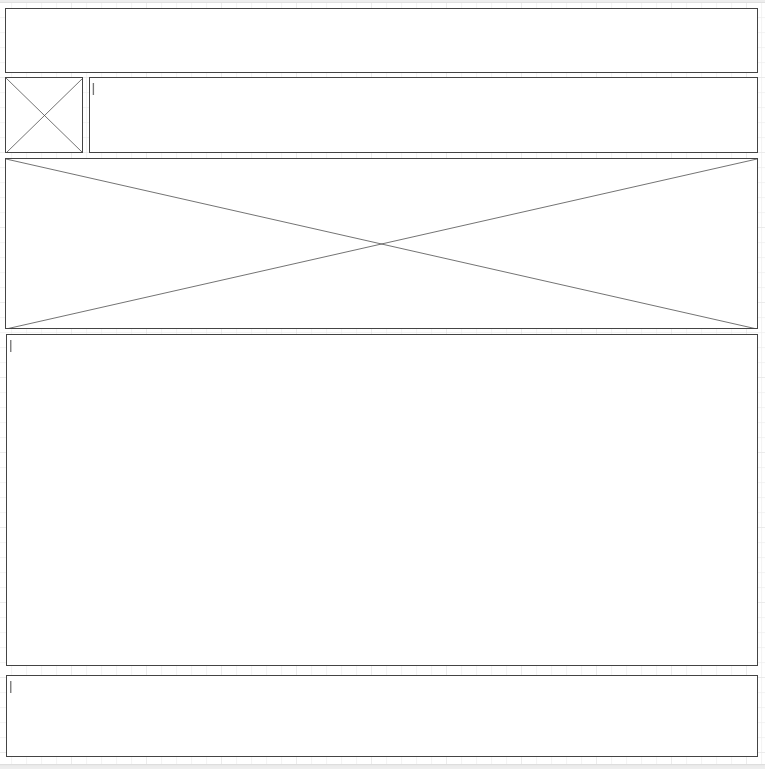
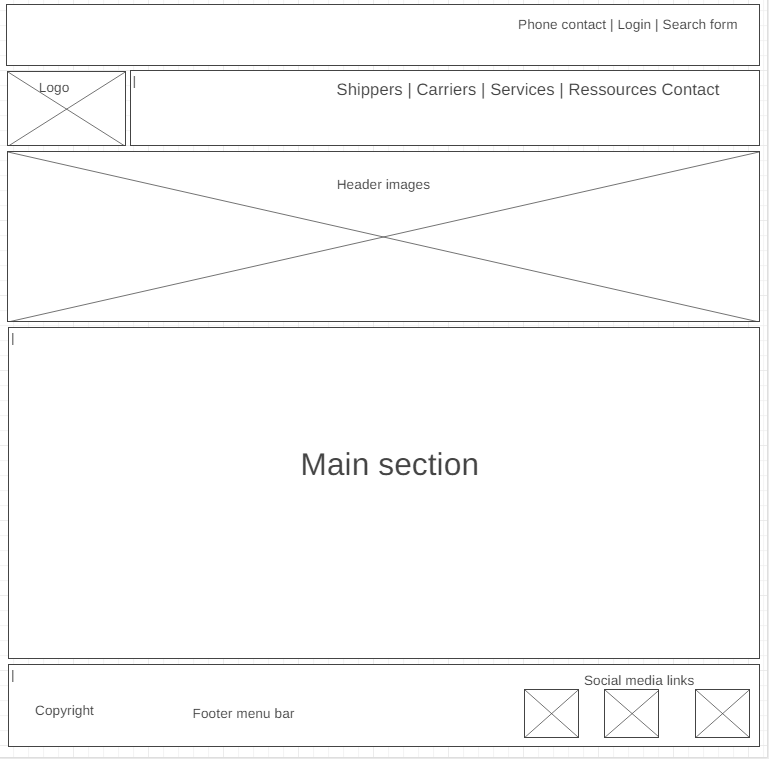
Site plan update 200622

diff --git a/cargofreight/site-plan.html b/cargofreight/site-plan.html
@@ -180,7 +180,7 @@
       <p>         
         [Any additional details about page 2 that the wireframe does not make clear]
       </p>
-      <img src="#" alt="page 2 wireframe">
+      <img src="images/service-wireframe.png" alt="service wireframe">
 
       <h3>Contact Us</h3>
       <p>         
